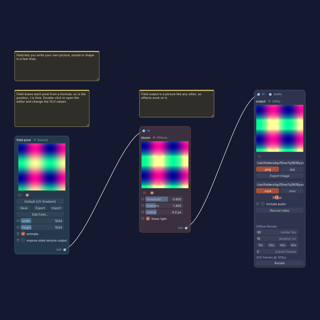
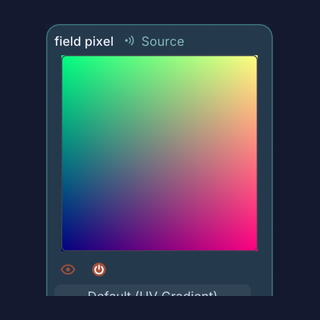
v1 polish: Showcase listed first, starter thumbnails from the manuals' node shots, Studio 'Scale' gets its own musical-scale key, profile email fixed, four website embeds back on brand colours
Gate that should have caught the embed colours: brand_lint in the daily-embed publish step.

diff --git a/website/embeds/indie_psychedelic.html b/website/embeds/indie_psychedelic.html
@@ -6,7 +6,7 @@
   <title>Dreamy Indie Psychedelia &amp; Introspective Melt — Interactive Infinite Visualizer</title>
   <style>
     * { box-sizing: border-box; margin: 0; padding: 0; }
-    body, html { width: 100%; height: 100%; overflow: hidden; background: #0b0d17; font-family: -apple-system, BlinkMacSystemFont, "Segoe UI", Roboto, sans-serif; }
+    body, html { width: 100%; height: 100%; overflow: hidden; background: #0d1020; font-family: -apple-system, BlinkMacSystemFont, "Segoe UI", Roboto, sans-serif; }
     canvas { width: 100%; height: 100%; display: block; }
     .badge {
       position: absolute;
@@ -53,7 +53,7 @@
       background: rgba(15, 18, 35, 0.82);
       backdrop-filter: blur(8px);
       border: 1px solid rgba(255, 255, 255, 0.15);
-      color: #eaeaea;
+      color: #eeedf6;
       padding: 6px 10px;
       border-radius: 6px;
       font-size: 11px;

diff --git a/website/embeds/liminal_void.html b/website/embeds/liminal_void.html
@@ -7,7 +7,7 @@
   <title>Liminal Anime Concept Art &amp; Uncanny Voids — Interactive Infinite Visualizer</title>
   <style>
     * { box-sizing: border-box; margin: 0; padding: 0; }
-    body, html { width: 100%; height: 100%; overflow: hidden; background: #0b0d17; font-family: -apple-system, BlinkMacSystemFont, "Segoe UI", Roboto, sans-serif; }
+    body, html { width: 100%; height: 100%; overflow: hidden; background: #0d1020; font-family: -apple-system, BlinkMacSystemFont, "Segoe UI", Roboto, sans-serif; }
     canvas { width: 100%; height: 100%; display: block; }
     .badge {
       position: absolute;
@@ -54,7 +54,7 @@
       background: rgba(15, 18, 35, 0.82);
       backdrop-filter: blur(8px);
       border: 1px solid rgba(255, 255, 255, 0.15);
-      color: #eaeaea;
+      color: #eeedf6;
       padding: 6px 10px;
       border-radius: 6px;
       font-size: 11px;

diff --git a/website/embeds/riso_manga_zine.html b/website/embeds/riso_manga_zine.html
@@ -6,7 +6,7 @@
   <title>Risograph Manga Pop &amp; Deconstructed Zine — Interactive Infinite Visualizer</title>
   <style>
     * { box-sizing: border-box; margin: 0; padding: 0; }
-    body, html { width: 100%; height: 100%; overflow: hidden; background: #0b0d17; font-family: -apple-system, BlinkMacSystemFont, "Segoe UI", Roboto, sans-serif; }
+    body, html { width: 100%; height: 100%; overflow: hidden; background: #0d1020; font-family: -apple-system, BlinkMacSystemFont, "Segoe UI", Roboto, sans-serif; }
     canvas { width: 100%; height: 100%; display: block; }
     .badge {
       position: absolute;
@@ -53,7 +53,7 @@
       background: rgba(15, 18, 35, 0.82);
       backdrop-filter: blur(8px);
       border: 1px solid rgba(255, 255, 255, 0.15);
-      color: #eaeaea;
+      color: #eeedf6;
       padding: 6px 10px;
       border-radius: 6px;
       font-size: 11px;

diff --git a/website/embeds/ukiyoe_cartography.html b/website/embeds/ukiyoe_cartography.html
@@ -6,7 +6,7 @@
   <title>Ukiyo-e Woodblock Cartography — Interactive Infinite Visualizer</title>
   <style>
     * { box-sizing: border-box; margin: 0; padding: 0; }
-    body, html { width: 100%; height: 100%; overflow: hidden; background: #0b0d17; font-family: -apple-system, BlinkMacSystemFont, "Segoe UI", Roboto, sans-serif; }
+    body, html { width: 100%; height: 100%; overflow: hidden; background: #0d1020; font-family: -apple-system, BlinkMacSystemFont, "Segoe UI", Roboto, sans-serif; }
     canvas { width: 100%; height: 100%; display: block; }
     .badge {
       position: absolute;
@@ -53,7 +53,7 @@
       background: rgba(15, 18, 35, 0.82);
       backdrop-filter: blur(8px);
       border: 1px solid rgba(255, 255, 255, 0.15);
-      color: #eaeaea;
+      color: #eeedf6;
       padding: 6px 10px;
       border-radius: 6px;
       font-size: 11px;

diff --git a/tools/templates/node_thumbs.py b/tools/templates/node_thumbs.py
@@ -1,0 +1,39 @@
+#!/usr/bin/env python3
+"""Writes assets/templates/thumbs/<slug>.png for the Starters: the manuals' own retina screenshot of one relevant
+node (docs/shots/raw/<Category>__<Node>__o.png, written by tools/docs-shots; gitignored, so pass --shots when the
+checkout has none) trimmed to the node and centred on the canvas colour in a 320 x 320 tile (owner's call, 2026-10-31).
+    python3 tools/templates/node_thumbs.py [--shots path/to/docs/shots/raw]
+The Showcase tile is a screenshot of the patch itself (shoot_thumbs.py). Needs PIL."""
+import os, sys
+from PIL import Image, ImageChops
+ROOT = os.path.abspath(os.path.join(os.path.dirname(__file__), "..", ".."))
+SHOTS = os.path.join(ROOT, "docs", "shots", "raw")
+THUMBS = os.path.join(ROOT, "assets", "templates", "thumbs")
+BG = (21, 25, 48)
+NODE = {   # starter slug -> the node that shows what the starter is about
+    "first-sound": "Synths__Analog", "first-image": "Source__Shape", "first-music-image": "Modulators__Audio_Analyze",
+    "source": "Source__Noise", "compositing": "Compositing__Trails", "effects": "Effects__kaleidoscope",
+    "3d": "3D__Render_3D", "modulators": "Modulators__LFO", "macros": "Macros__Macro_Knob",
+    "notes": "Notes__Note_Sequencer", "synths": "Synths__FM", "audio-effects": "AudioEffects__Reverb",
+    "prediction": "Prediction__Predictive_Notes", "utility": "Utility__Mixer", "field": "Source__FieldPixel",
+}
+
+def trim(im):
+    """Cut the canvas away from the node: everything that differs from the corner colour."""
+    bg = im.getpixel((2, 2))
+    box = ImageChops.difference(im, Image.new("RGB", im.size, bg)).point(lambda v: 255 if v > 14 else 0).getbbox()
+    return im.crop(box) if box else im
+
+shots = SHOTS
+if "--shots" in sys.argv:
+    shots = sys.argv[sys.argv.index("--shots") + 1]
+for slug, node in NODE.items():
+    im = trim(Image.open(os.path.join(shots, node + "__o.png")).convert("RGB"))
+    if im.height > 1.2 * im.width:      # a tall node: its top section (header, preview, first controls) reads better than all of it
+        im = im.crop((0, 0, im.width, round(1.2 * im.width)))
+    k = min(272 / im.width, 272 / im.height)
+    im = im.resize((max(1, round(im.width * k)), max(1, round(im.height * k))), Image.LANCZOS)
+    tile = Image.new("RGB", (320, 320), BG)
+    tile.paste(im, ((320 - im.width) // 2, (320 - im.height) // 2))
+    tile.save(os.path.join(THUMBS, slug + ".png"))
+    print(slug, "<-", node)

diff --git a/src/app/panels/SampleStudioPanel.cpp b/src/app/panels/SampleStudioPanel.cpp
@@ -2673,7 +2673,7 @@ namespace
          s.dirty = true;
 
       // The project's key and scale, which "snap to scale" follows (the same values as the top bar's key).
-      SectionCard::Begin(T("Scale"));
+      SectionCard::Begin(TC("Music", "Scale"));
       {
          Transport& tr = Transport::Instance();
          static const char* const keys[] = { "C", "C#", "D", "D#", "E", "F", "F#", "G", "G#", "A", "A#", "B" };
@@ -2687,7 +2687,7 @@ namespace
                   tr.SetKey(i);
             MenuParts::EndCombo();
          }
-         Row(T("Scale"), fieldW);
+         Row(TC("Music", "Scale"), fieldW);
          const int sc = std::clamp(tr.Scale(), 0, (int)scales.size() - 1);
          if (MenuParts::BeginCombo("##studioscale", scales[(size_t)sc].c_str()))
          {

diff --git a/tools/templates/gen_templates.py b/tools/templates/gen_templates.py
@@ -203,9 +203,9 @@ def main():
             shutil.copy2(os.path.join(ROOT, sc["media"], name), os.path.join(dest, name))
     with open(os.path.join(OUT, "index.txt"), "w") as f:
         f.write("# slug|group|title|one line. Written by tools/templates/gen_templates.py; read by the Templates window.\n")
+        for sc in SHOWCASE:     # the Templates window lists groups in file order: Showcase first
+            f.write(f"{sc['slug']}|Showcase|{sc['title']}|{sc['blurb']}\n")
         for t in T.all:
             f.write(f"{t.slug}|Starters|{t.title}|{t.blurb}\n")
-        for sc in SHOWCASE:
-            f.write(f"{sc['slug']}|Showcase|{sc['title']}|{sc['blurb']}\n")
     print(len(T.all), "starters,", len(SHOWCASE), "showcase")
 main()

diff --git a/.claude/skills/infinite-patch-authoring/showcase.md b/.claude/skills/infinite-patch-authoring/showcase.md
@@ -32,7 +32,9 @@ Run each on the finished template, from a different working directory (so a rela
 
 ## Thumbnails
 
-`assets/templates/thumbs/<slug>.png`, 320 x 320: a screenshot of the template's own node graph (owner's call, 2026-10-31), so a sound-only starter has a tile too. `python3 tools/templates/shoot_thumbs.py [slug ...]` writes them: one off-screen dev app per template in its own HOME, `view params on`, `view fit`, the app saves its own frame (`INFINITE_SHOT_REQUEST`), the canvas is cropped to the graph and centred in the tile. Run `gen_templates.py` first, wait for `ibuild.py status` to say the lock is free, and re-shoot whenever a template's layout changes.
+`assets/templates/thumbs/<slug>.png`, 320 x 320. The Showcase group is listed first in `index.txt` (the Templates window groups rows in file order). Showcase tile: a screenshot of the template's own node graph (owner's call, 2026-10-31). `python3 tools/templates/shoot_thumbs.py [slug ...]` writes it: one off-screen dev app per template in its own HOME, `view params on`, `view fit`, the app saves its own frame (`INFINITE_SHOT_REQUEST`), the canvas is cropped to the graph and centred in the tile. Run `gen_templates.py` first, wait for `ibuild.py status` to say the lock is free, and re-shoot whenever the template's layout changes.
+
+Starter tiles: the manuals' own retina screenshot of one relevant node (`docs/shots/raw/<Category>__<Node>__o.png`, made by `tools/docs-shots`; the folder is gitignored, so pass `--shots <path>` from a checkout that has it), trimmed to the node: `python3 tools/templates/node_thumbs.py`. The slug-to-node table is at the top of that script; tall nodes keep their top section. A new starter needs a row in that table.
 
 ## Packaging
 

diff --git a/PROFILE_README.md b/PROFILE_README.md
@@ -121,7 +121,7 @@ flowchart LR
 - Discord Community: [Join the Infinite Server](https://discord.gg/GMeQTyJqkH)
 - Twitter / X: [@n1m21n](https://x.com/n1m21n)
 - Instagram: [@n1m21n](https://instagram.com/n1m21n)
-- Email: namansoniiii21@gmail.com
+- Email: namansoniii21@gmail.com
 
 <div align="center">
   <sub>Designed with curiosity and passion for generative sound and computational art.</sub>
